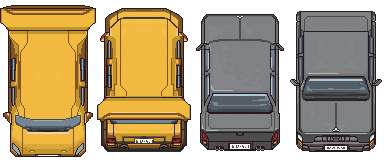
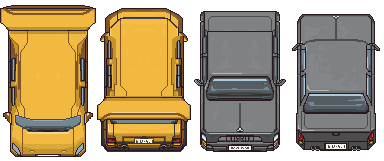
fixed the car images

Changed region(s): [[0.5, 0.0621, 1.0, 0.9627]]

diff --git a/lib/src/level/level.dart b/lib/src/level/level.dart
@@ -455,26 +455,34 @@ abstract class Level extends Broadcaster implements ComponentListener {
           String type = object["type"];
           if (type == "trigger") {
             if (object["properties"]["type"] == "beer_store") {
+
               GameEvent beerStoreEvent = new GameEvent();
               beerStoreEvent.type = GameEvent.BEER_STORE_EVENT;
               beerStoreEvent.value = 24;
               l.addTrigger(new Trigger(beerStoreEvent, row, col));
+
             } else if (object["properties"]["type"] == "party_arrival") {
+
               GameEvent partyArrivalEvent = new GameEvent();
               partyArrivalEvent.type = GameEvent.PARTY_ARRIVAL_EVENT;
               l.addTrigger(new Trigger(partyArrivalEvent, row, col));
             }
           } else if (type == "region") {
+
             _LayerRegion r = new _LayerRegion.fromJson(object);
             Region reg = new Region(r.x, r.x + r.width, r.y, r.y + r.height);
             _regions[r.name] = reg;
+
           } else if (type == "path") {
+
             _LayerPath p = new _LayerPath.fromJson(object);
             _paths[p.name] = p;
             GamePath path = new GamePath(new List<GamePoint>());
+
             for (_Point po in p.points) {
               path.addPoint(new GamePoint(po.x * l.tileWidth, po.y * l.tileHeight));
             }
+
             _LevelTileset _tVert = idx.tilesetByName("cars_vert");
             _LevelTileset _tHoriz = idx.tilesetByName("cars_horiz");
             window.console.log("vert tset: ${_tVert}");
@@ -484,7 +492,9 @@ abstract class Level extends Broadcaster implements ComponentListener {
             CarFactory f = new CarFactory(l, vert, horiz);
             f.setGenerator(new CarGeneratorComponent(path, p.spawnAt));
             l.addCarFactory(f);
+
           } else if (type == "npc") {
+
             _LayerNPC n = new _LayerNPC.fromJson(object);
             _npcs.add(n);
           }

diff --git a/lib/src/car/car.dart b/lib/src/car/car.dart
@@ -48,17 +48,13 @@ class Car extends GameObject {
   Sprite getMoveSprite() {
     int t = this._type;
     if (this.dir == DIR_UP) {
-      return this._vert.spriteAt(96 * (t + 1), 0, 96, 160);
-      //return Data._carSpriteSheetData["car${t}Up"];
+      return this._vert.spriteAtNew(0, t * 2 + 1);
     } else if (this.dir == DIR_RIGHT) {
-      return this._horiz.spriteAt(160, 96 * t, 160, 96);
-      //return Data._carSpriteSheetData["car${t}Right"];
+      return this._horiz.spriteAtNew(t, 1);
     } else if (this.dir == DIR_DOWN) {
-      return this._vert.spriteAt(96 * (t * 3), 0, 96, 160);
-      //return Data._carSpriteSheetData["car${t}Down"];
-    } else {
-      return this._horiz.spriteAt(0, 96 * t, 160, 96);
-      //return Data._carSpriteSheetData["car${t}Left"];
+      return this._vert.spriteAtNew(0, t * 2);
+    } else { // if (this.dir == DIR_LEFT) {
+      return this._horiz.spriteAtNew(t, 0);
     }
   }
   Sprite getStaticSprite() {

diff --git a/lib/src/drawing/sprite_sheet.dart b/lib/src/drawing/sprite_sheet.dart
@@ -22,4 +22,11 @@ class SpriteSheet {
     }
     return new Sprite(this._image, x, y, width, height);
   }
+
+  Sprite spriteAtNew(int row, int col) {
+
+    return new Sprite(this._image,
+        this._spriteWidth * col, this._spriteHeight * row,
+        this._spriteWidth, this._spriteHeight);
+  }
 }
